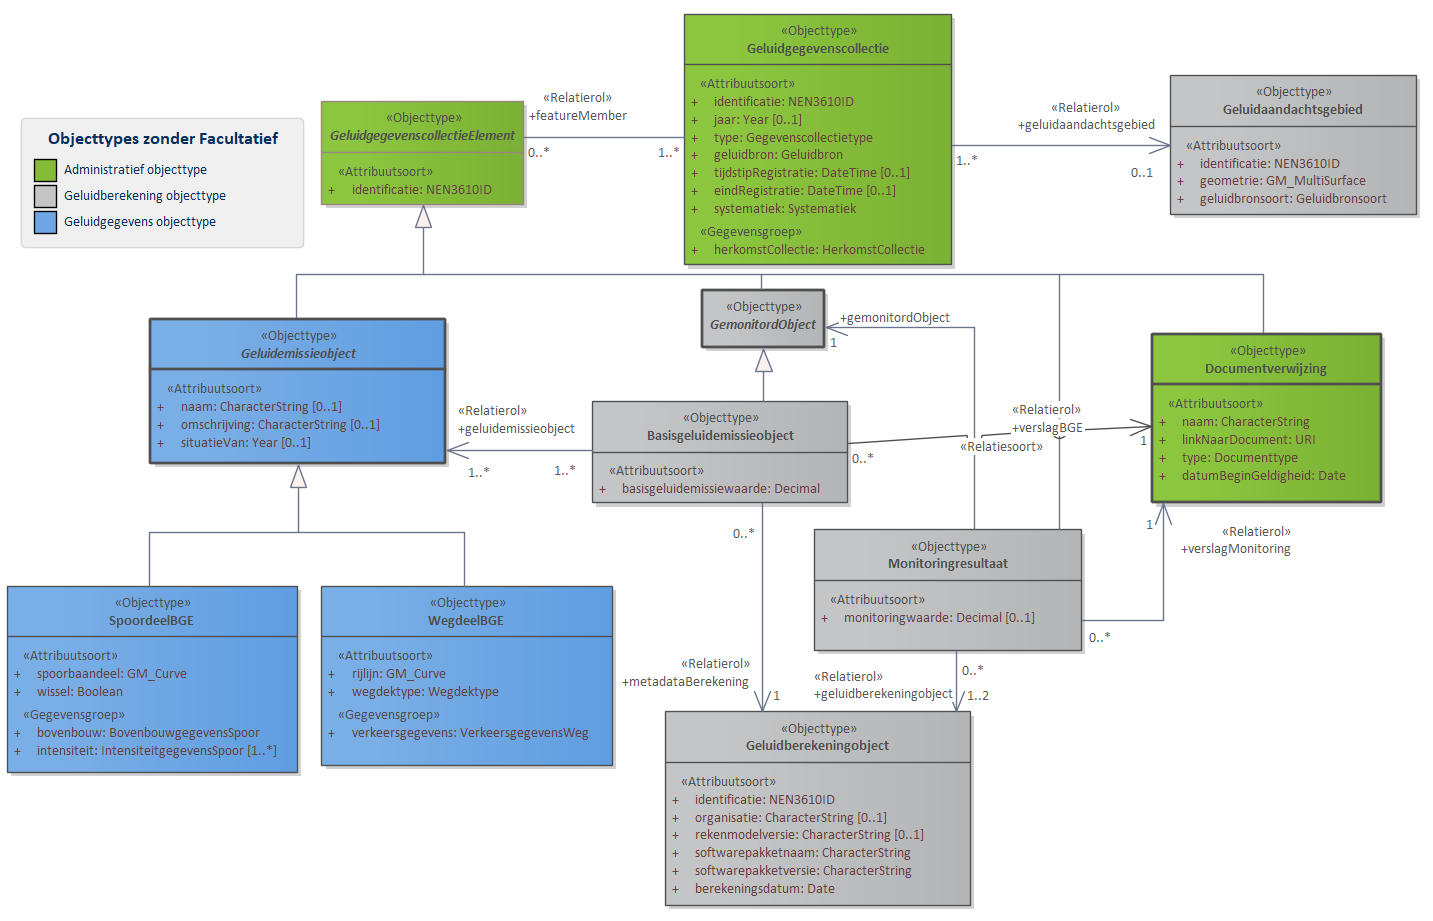
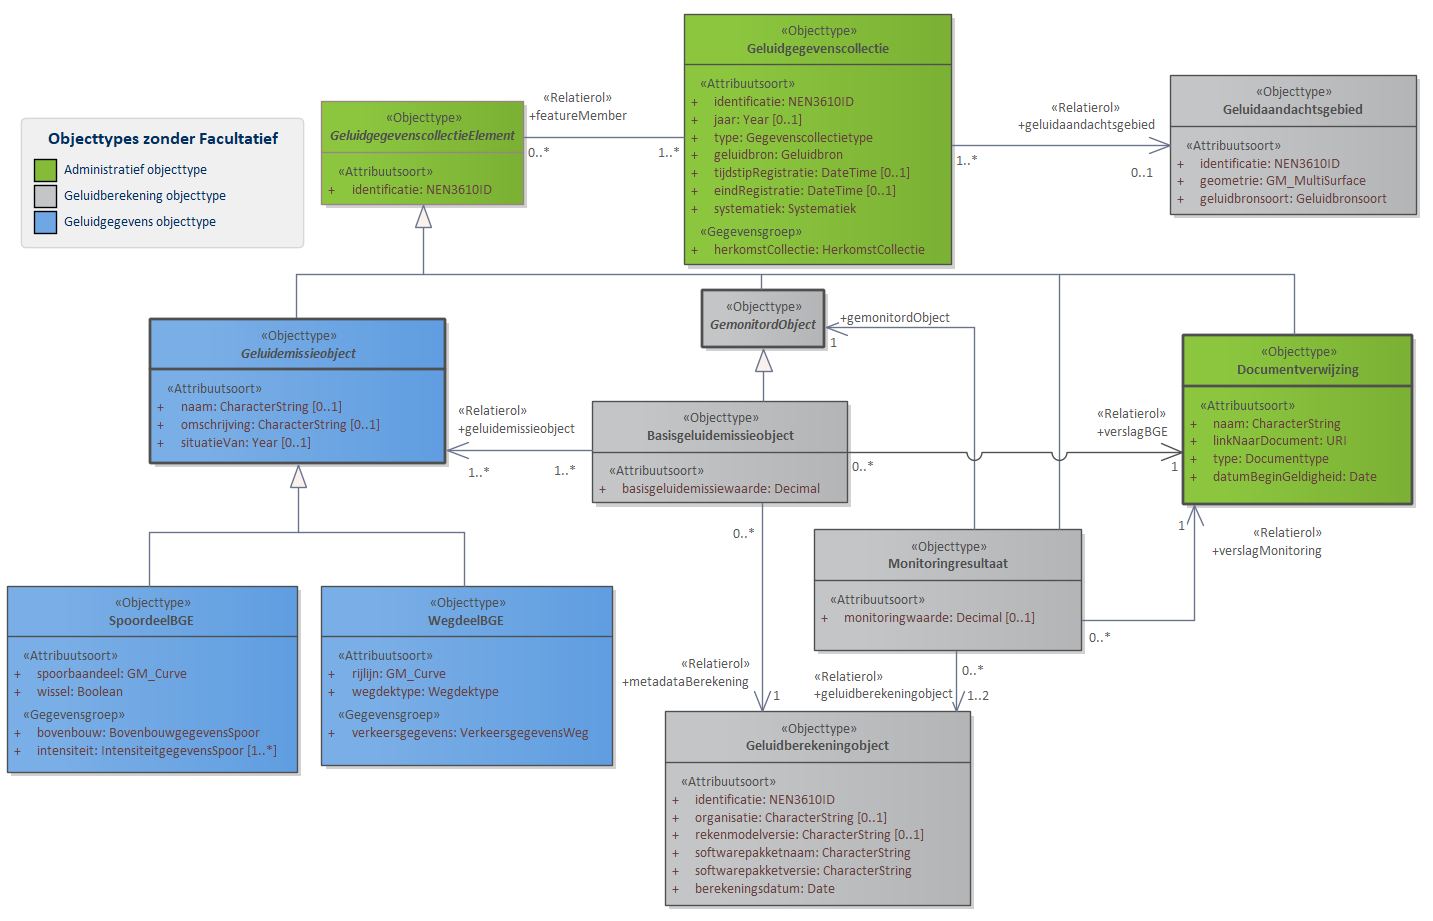
MIMLM-IMGeluid-3.1.1-0-20230920-20260715-102055

Changed region(s): [[0.5834, 0.3344, 1.0, 0.608]]

diff --git a/data/IMG-cat.respec.html b/data/IMG-cat.respec.html
@@ -1,4 +1,4 @@
-<!DOCTYPE HTML><section id="cat" class="normative"><h2>Gegevensdefinitie</h2><!--MIMLM-IMGeluid-3.1.1-0-20230920-20260715-100104 imvertor 4.5.0--><section id="EAID_66AE8FA2_74FC_4d4d_B2B2_249C8D6A651F"><h3>   Basismodel - overzicht</h3><div class="imageinfo overview"><figure class="uml-diagram"><img id="EAID_66AE8FA2_74FC_4d4d_B2B2_249C8D6A651F" src="data/Images/EAID_66AE8FA2_74FC_4d4d_B2B2_249C8D6A651F.png" usemap="#imagemap-EAID_66AE8FA2_74FC_4d4d_B2B2_249C8D6A651F" alt="Diagram: Het Basismodel vormt de samenhang tussen alle domeinen van het IMGeluid. Alle objecttypen en relaties uit het IMGeluid komen samen in een Geluidgegevenscollectie. Binnen het IMGeluid worden geluidbrongegevens die gebruikt worden voor GPP en BGE berekeningen, gemodelleerd als een Geluidemissie of Geluidoverdrachtobject. De resultaten van GPP of BGE berekeningen worden opgeslagen in een Geluidgegevenscollectie. De onderliggende juridische vastleggingen, vaststellingen, of monitoringsverslagen van deze omgevings- of monitoringswaarden, worden ook opgeslagen in dezelfde Geluidgegevenscollectie. Per geluidbron per toepassing kan er een Geluidgegevenscollectie bestaan. Deze kan geassocieerd worden met maximaal 1 Geluidaandachtsgebied. Wanneer geluidgegevens met betrekking tot cumulatieberekeningen worden aangeleverd, bevat een Geluidgegevenscollectie geen Geluidaandachtsgebied. Klik met de rechtermuisknop op het diagram om de afbeelding op volledige grootte in een nieuw tabblad te openen."><figcaption> ‒ Diagram: Basismodel</figcaption></figure><map name="imagemap-EAID_66AE8FA2_74FC_4d4d_B2B2_249C8D6A651F"><area shape="rect" alt="GemonitordObject" coords="865,436,988,491" href="#global_class_IMGeluid_GemonitordObject"><area shape="rect" alt="GeluidgegevenscollectieElement" coords="49,99,286,202" href="#global_class_IMGeluid_GeluidgegevenscollectieElement"><area shape="rect" alt="Monitoringresultaat" coords="349,576,598,690" href="#global_class_IMGeluid_Monitoringresultaat"><area shape="rect" alt="Basisgeluidemissieobject" coords="647,633,877,735" href="#global_class_IMGeluid_Basisgeluidemissieobject"><area shape="rect" alt="Geluidproductieplafondobject" coords="899,633,1174,882" href="#global_class_IMGeluid_Geluidproductieplafondobject"><area shape="rect" alt="Geluidberekeningobject" coords="430,858,702,1051" href="#global_class_IMGeluid_Geluidberekeningobject"><area shape="rect" alt="Documentverwijzing" coords="390,313,609,475" href="#global_class_IMGeluid_Documentverwijzing"><area shape="rect" alt="Geluidaandachtsgebied" coords="922,81,1149,220" href="#global_class_IMGeluid_Geluidaandachtsgebied"><area shape="rect" alt="Geluidgegevenscollectie" coords="454,14,724,265" href="#global_class_IMGeluid_Geluidgegevenscollectie"><area shape="rect" alt="Geluidemissieobject" coords="14,622,242,766" href="#global_class_IMGeluid_Geluidemissieobject"><area shape="rect" alt="Geluidoverdrachtobject" coords="68,320,319,442" href="#global_class_IMGeluid_Geluidoverdrachtobject"></map><p>
+<!DOCTYPE HTML><section id="cat" class="normative"><h2>Gegevensdefinitie</h2><!--MIMLM-IMGeluid-3.1.1-0-20230920-20260715-102055 imvertor 4.5.0--><section id="EAID_66AE8FA2_74FC_4d4d_B2B2_249C8D6A651F"><h3>   Basismodel - overzicht</h3><div class="imageinfo overview"><figure class="uml-diagram"><img id="EAID_66AE8FA2_74FC_4d4d_B2B2_249C8D6A651F" src="data/Images/EAID_66AE8FA2_74FC_4d4d_B2B2_249C8D6A651F.png" usemap="#imagemap-EAID_66AE8FA2_74FC_4d4d_B2B2_249C8D6A651F" alt="Diagram: Het Basismodel vormt de samenhang tussen alle domeinen van het IMGeluid. Alle objecttypen en relaties uit het IMGeluid komen samen in een Geluidgegevenscollectie. Binnen het IMGeluid worden geluidbrongegevens die gebruikt worden voor GPP en BGE berekeningen, gemodelleerd als een Geluidemissie of Geluidoverdrachtobject. De resultaten van GPP of BGE berekeningen worden opgeslagen in een Geluidgegevenscollectie. De onderliggende juridische vastleggingen, vaststellingen, of monitoringsverslagen van deze omgevings- of monitoringswaarden, worden ook opgeslagen in dezelfde Geluidgegevenscollectie. Per geluidbron per toepassing kan er een Geluidgegevenscollectie bestaan. Deze kan geassocieerd worden met maximaal 1 Geluidaandachtsgebied. Wanneer geluidgegevens met betrekking tot cumulatieberekeningen worden aangeleverd, bevat een Geluidgegevenscollectie geen Geluidaandachtsgebied. Klik met de rechtermuisknop op het diagram om de afbeelding op volledige grootte in een nieuw tabblad te openen."><figcaption> ‒ Diagram: Basismodel</figcaption></figure><map name="imagemap-EAID_66AE8FA2_74FC_4d4d_B2B2_249C8D6A651F"><area shape="rect" alt="GemonitordObject" coords="867,409,991,464" href="#global_class_IMGeluid_GemonitordObject"><area shape="rect" alt="GeluidgegevenscollectieElement" coords="49,99,286,202" href="#global_class_IMGeluid_GeluidgegevenscollectieElement"><area shape="rect" alt="Monitoringresultaat" coords="349,576,598,690" href="#global_class_IMGeluid_Monitoringresultaat"><area shape="rect" alt="Basisgeluidemissieobject" coords="647,633,877,735" href="#global_class_IMGeluid_Basisgeluidemissieobject"><area shape="rect" alt="Geluidproductieplafondobject" coords="899,633,1174,882" href="#global_class_IMGeluid_Geluidproductieplafondobject"><area shape="rect" alt="Geluidberekeningobject" coords="430,858,702,1051" href="#global_class_IMGeluid_Geluidberekeningobject"><area shape="rect" alt="Documentverwijzing" coords="390,313,609,475" href="#global_class_IMGeluid_Documentverwijzing"><area shape="rect" alt="Geluidaandachtsgebied" coords="922,81,1149,220" href="#global_class_IMGeluid_Geluidaandachtsgebied"><area shape="rect" alt="Geluidgegevenscollectie" coords="454,14,724,265" href="#global_class_IMGeluid_Geluidgegevenscollectie"><area shape="rect" alt="Geluidemissieobject" coords="14,622,242,766" href="#global_class_IMGeluid_Geluidemissieobject"><area shape="rect" alt="Geluidoverdrachtobject" coords="68,320,319,442" href="#global_class_IMGeluid_Geluidoverdrachtobject"></map><p>
                         <p>Het Basismodel vormt de samenhang tussen alle domeinen van het IMGeluid. Alle objecttypen en relaties uit het IMGeluid komen samen in een Geluidgegevenscollectie.</p>
                         <p>Binnen het IMGeluid worden geluidbrongegevens die gebruikt worden voor GPP en BGE berekeningen, gemodelleerd als een Geluidemissie of Geluidoverdrachtobject. De resultaten van GPP of BGE berekeningen worden opgeslagen in een Geluidgegevenscollectie. De onderliggende juridische vastleggingen, vaststellingen, of monitoringsverslagen van deze omgevings- of monitoringswaarden, worden ook opgeslagen in dezelfde Geluidgegevenscollectie.</p>
                         <p>Per geluidbron per toepassing kan er een Geluidgegevenscollectie bestaan. Deze kan geassocieerd worden met maximaal 1 Geluidaandachtsgebied. Wanneer geluidgegevens met betrekking tot cumulatieberekeningen worden aangeleverd, bevat een Geluidgegevenscollectie geen Geluidaandachtsgebied.</p>
@@ -29,7 +29,7 @@
                         <p></p>
                         <p>Klik met de rechtermuisknop op het diagram om de afbeelding op volledige grootte in een nieuw tabblad te openen</p>
                         <p></p>
-                     </p></div></section><section id="EAID_364458AB_9840_41eb_9BE1_63A5FE73DB2B"><h3>   BGE Algemeen - overzicht</h3><div class="imageinfo overview"><figure class="uml-diagram"><img id="EAID_364458AB_9840_41eb_9BE1_63A5FE73DB2B" src="data/Images/EAID_364458AB_9840_41eb_9BE1_63A5FE73DB2B.png" usemap="#imagemap-EAID_364458AB_9840_41eb_9BE1_63A5FE73DB2B" alt="Diagram: In domeinmodel BGE Algemeen staan objecttypen en relaties die relevant zijn voor alle basisgeluidemissie (BGE) domeinen binnen IMGeluid. De door het bevoegd gezag bepaalde basisgeluidemissiewaarde wordt conform het Basisgeluidemissieobject opgenomen in het geluidregister. Deze waarde heeft betrekking op een Geluidemissieobject. Voor BGE Spoor is dit Geluidemissieobject alleen een SpoordeelBGE. Voor BGE Weg zijn zowel SpoordeelBGE als WegdeelBGE een specialisatie van Geluidemissieobject, omdat het bevoegd gezag de keuze heeft om spoor en wegdelen dezelfde basisgeluidemissiewaarde toe te kennen. Klik met de rechtermuisknop op het diagram om de afbeelding op volledige grootte in een nieuw tabblad te openen"><figcaption> ‒ Diagram: BGE Algemeen</figcaption></figure><map name="imagemap-EAID_364458AB_9840_41eb_9BE1_63A5FE73DB2B"><area shape="rect" alt="GemonitordObject" coords="702,290,825,348" href="#global_class_IMGeluid_GemonitordObject"><area shape="rect" alt="GeluidgegevenscollectieElement" coords="321,101,524,205" href="#global_class_IMGeluid_GeluidgegevenscollectieElement"><area shape="rect" alt="WegdeelBGE" coords="321,586,613,766" href="#global_class_IMGeluid_WegdeelBGE"><area shape="rect" alt="Geluidaandachtsgebied" coords="1170,75,1417,215" href="#global_class_IMGeluid_Geluidaandachtsgebied"><area shape="rect" alt="Monitoringresultaat" coords="814,529,1082,651" href="#global_class_IMGeluid_Monitoringresultaat"><area shape="rect" alt="Geluidgegevenscollectie" coords="684,14,952,265" href="#global_class_IMGeluid_Geluidgegevenscollectie"><area shape="rect" alt="SpoordeelBGE" coords="7,586,298,773" href="#global_class_IMGeluid_SpoordeelBGE"><area shape="rect" alt="Geluidemissieobject" coords="150,319,446,464" href="#global_class_IMGeluid_Geluidemissieobject"><area shape="rect" alt="Documentverwijzing" coords="1152,334,1382,503" href="#global_class_IMGeluid_Documentverwijzing"><area shape="rect" alt="Geluidberekeningobject" coords="665,711,971,906" href="#global_class_IMGeluid_Geluidberekeningobject"><area shape="rect" alt="Basisgeluidemissieobject" coords="592,401,848,503" href="#global_class_IMGeluid_Basisgeluidemissieobject"></map><p>
+                     </p></div></section><section id="EAID_364458AB_9840_41eb_9BE1_63A5FE73DB2B"><h3>   BGE Algemeen - overzicht</h3><div class="imageinfo overview"><figure class="uml-diagram"><img id="EAID_364458AB_9840_41eb_9BE1_63A5FE73DB2B" src="data/Images/EAID_364458AB_9840_41eb_9BE1_63A5FE73DB2B.png" usemap="#imagemap-EAID_364458AB_9840_41eb_9BE1_63A5FE73DB2B" alt="Diagram: In domeinmodel BGE Algemeen staan objecttypen en relaties die relevant zijn voor alle basisgeluidemissie (BGE) domeinen binnen IMGeluid. De door het bevoegd gezag bepaalde basisgeluidemissiewaarde wordt conform het Basisgeluidemissieobject opgenomen in het geluidregister. Deze waarde heeft betrekking op een Geluidemissieobject. Voor BGE Spoor is dit Geluidemissieobject alleen een SpoordeelBGE. Voor BGE Weg zijn zowel SpoordeelBGE als WegdeelBGE een specialisatie van Geluidemissieobject, omdat het bevoegd gezag de keuze heeft om spoor en wegdelen dezelfde basisgeluidemissiewaarde toe te kennen. Klik met de rechtermuisknop op het diagram om de afbeelding op volledige grootte in een nieuw tabblad te openen"><figcaption> ‒ Diagram: BGE Algemeen</figcaption></figure><map name="imagemap-EAID_364458AB_9840_41eb_9BE1_63A5FE73DB2B"><area shape="rect" alt="GemonitordObject" coords="702,290,825,348" href="#global_class_IMGeluid_GemonitordObject"><area shape="rect" alt="GeluidgegevenscollectieElement" coords="321,101,524,205" href="#global_class_IMGeluid_GeluidgegevenscollectieElement"><area shape="rect" alt="WegdeelBGE" coords="321,586,613,766" href="#global_class_IMGeluid_WegdeelBGE"><area shape="rect" alt="Geluidaandachtsgebied" coords="1170,75,1417,215" href="#global_class_IMGeluid_Geluidaandachtsgebied"><area shape="rect" alt="Monitoringresultaat" coords="814,529,1082,651" href="#global_class_IMGeluid_Monitoringresultaat"><area shape="rect" alt="Geluidgegevenscollectie" coords="684,14,952,265" href="#global_class_IMGeluid_Geluidgegevenscollectie"><area shape="rect" alt="SpoordeelBGE" coords="7,586,298,773" href="#global_class_IMGeluid_SpoordeelBGE"><area shape="rect" alt="Geluidemissieobject" coords="150,319,446,464" href="#global_class_IMGeluid_Geluidemissieobject"><area shape="rect" alt="Documentverwijzing" coords="1183,335,1413,505" href="#global_class_IMGeluid_Documentverwijzing"><area shape="rect" alt="Geluidberekeningobject" coords="665,711,971,906" href="#global_class_IMGeluid_Geluidberekeningobject"><area shape="rect" alt="Basisgeluidemissieobject" coords="592,401,848,503" href="#global_class_IMGeluid_Basisgeluidemissieobject"></map><p>
                         <p>In domeinmodel BGE Algemeen staan objecttypen en relaties die relevant zijn voor alle basisgeluidemissie (BGE) domeinen binnen IMGeluid. </p>
                         <p>De door het bevoegd gezag bepaalde basisgeluidemissiewaarde wordt conform het Basisgeluidemissieobject opgenomen in het geluidregister. Deze waarde heeft betrekking op een Geluidemissieobject. Voor BGE Spoor is dit Geluidemissieobject alleen een SpoordeelBGE. Voor BGE Weg zijn zowel SpoordeelBGE als WegdeelBGE een specialisatie van Geluidemissieobject, omdat het bevoegd gezag de keuze heeft om spoor en wegdelen dezelfde basisgeluidemissiewaarde toe te kennen.</p>
                         <p>Klik met de rechtermuisknop op het diagram om de afbeelding op volledige grootte in een nieuw tabblad te openen</p>
@@ -7581,7 +7581,7 @@ Alleen op spooremplacementen kan sprake zijn van rangerend materieel. Spoorempla
                </section>
             </section>
             
-         </section></section><section id="lis" class="normative"><h2>Inhoud van waardelijsten</h2><!--MIMLM-IMGeluid-3.1.1-0-20230920-20260715-100104 imvertor 4.5.0--><section id="detail_class_IMGeluid_Schermtype"><h3>Enumeratie details  Schermtype</h3>
+         </section></section><section id="lis" class="normative"><h2>Inhoud van waardelijsten</h2><!--MIMLM-IMGeluid-3.1.1-0-20230920-20260715-102055 imvertor 4.5.0--><section id="detail_class_IMGeluid_Schermtype"><h3>Enumeratie details  Schermtype</h3>
             <table style="width: 100%;" class="list"><colgroup></colgroup><tbody><tr><td>
                      
                         <p>De gehanteerde categorisering van de type geluidschermen.</p>
